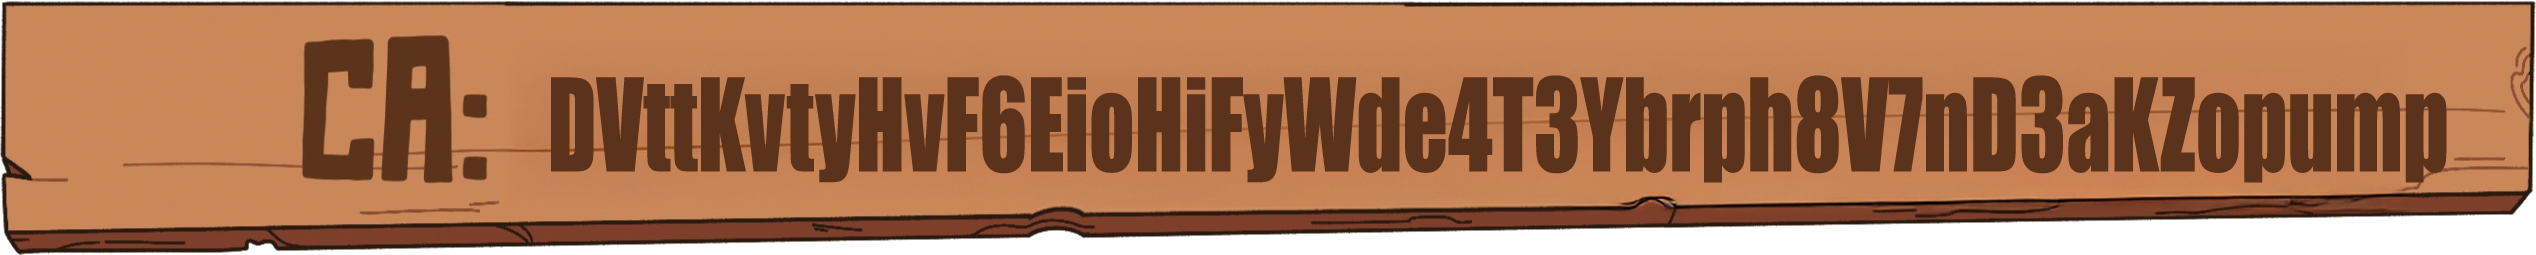
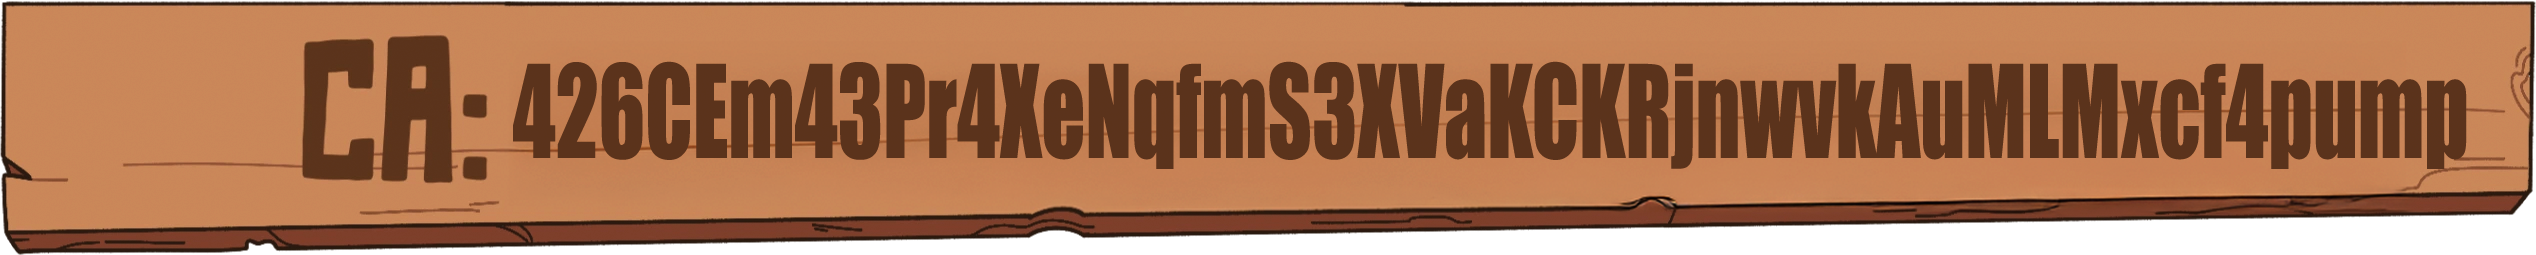
asd

Changed region(s): [[0.1869, 0.2471, 0.9968, 0.7137]]

diff --git a/index.html b/index.html
@@ -98,7 +98,7 @@
   copyTokenLink.addEventListener("click", (e) => {
     e.preventDefault();
     
-    const token = "DVttKvtyHvF6EioHiFyWde4T3Ybrph8V7nD3aKZopump";
+    const token = "426CEm43Pr4XeNqfmS3XVaKCKRjnwvkAuMLMxcf4pump";
     navigator.clipboard.writeText(token).then(() => {
       popup.classList.remove("hidden");
 
